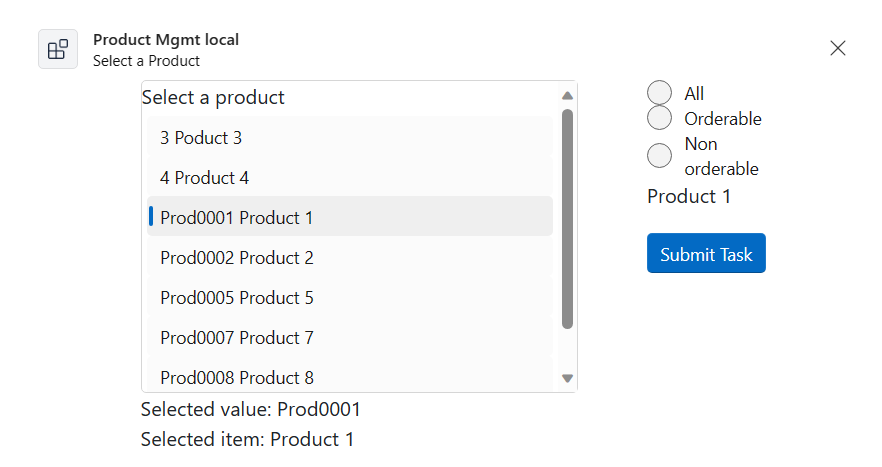
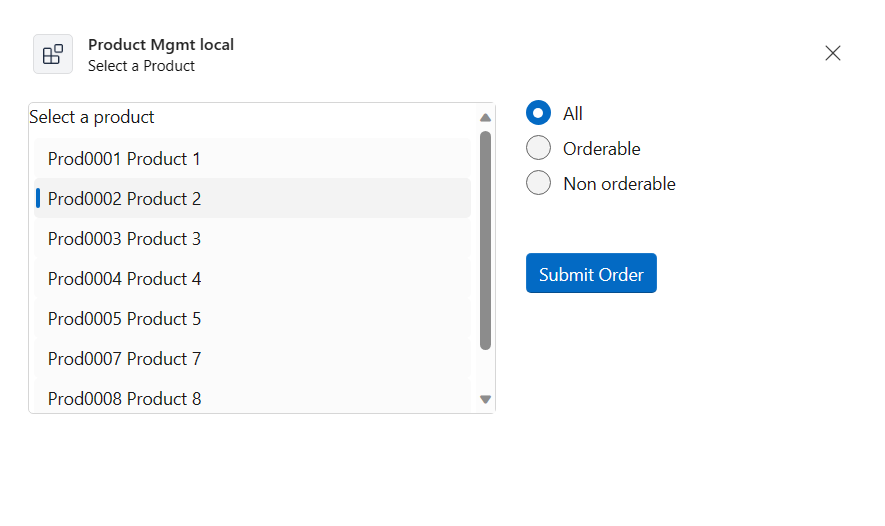
UI Styling

diff --git a/MsgextActionSrchData/Pages/InitialAction.razor.css b/MsgextActionSrchData/Pages/InitialAction.razor.css
@@ -1,6 +1,51 @@
 body {
 }
+@media (max-width: 576px) {
+  .tmContainer-sm {
+    display: grid;
+    max-width: 480px;
+    margin-top: 8px;
+    margin-left: 12px;
+    margin-right: 12px;
+  }
+}
+@media (min-width: 718px) {
+  .tmContainer-md {
+    display: grid;
+    max-width: 620px;
+    margin-top: 8px;
+    margin-left: 12px;
+    margin-right: 12px;
+  }
+}
 
+@media (min-width: 800px) {
+  .tmContainer {
+    display: grid;
+    width: 7200px;
+    margin-top: 8px;
+    margin-left: 12px;
+    margin-right: 12px;
+  }
+}
+
+.tmRow {
+  display: table-row;
+}
+
+.tmCol9 {
+  display: table-cell;
+  width: 75%;
+  padding-left: 16px;
+  padding-right: 16px;
+}
+.tmCol3 {
+  display: table-cell;
+  width: 25%;
+  padding-right: 8px;
+}
+  
+}
 .hiddenLabel {
   display: none;
   visibility: hidden;
